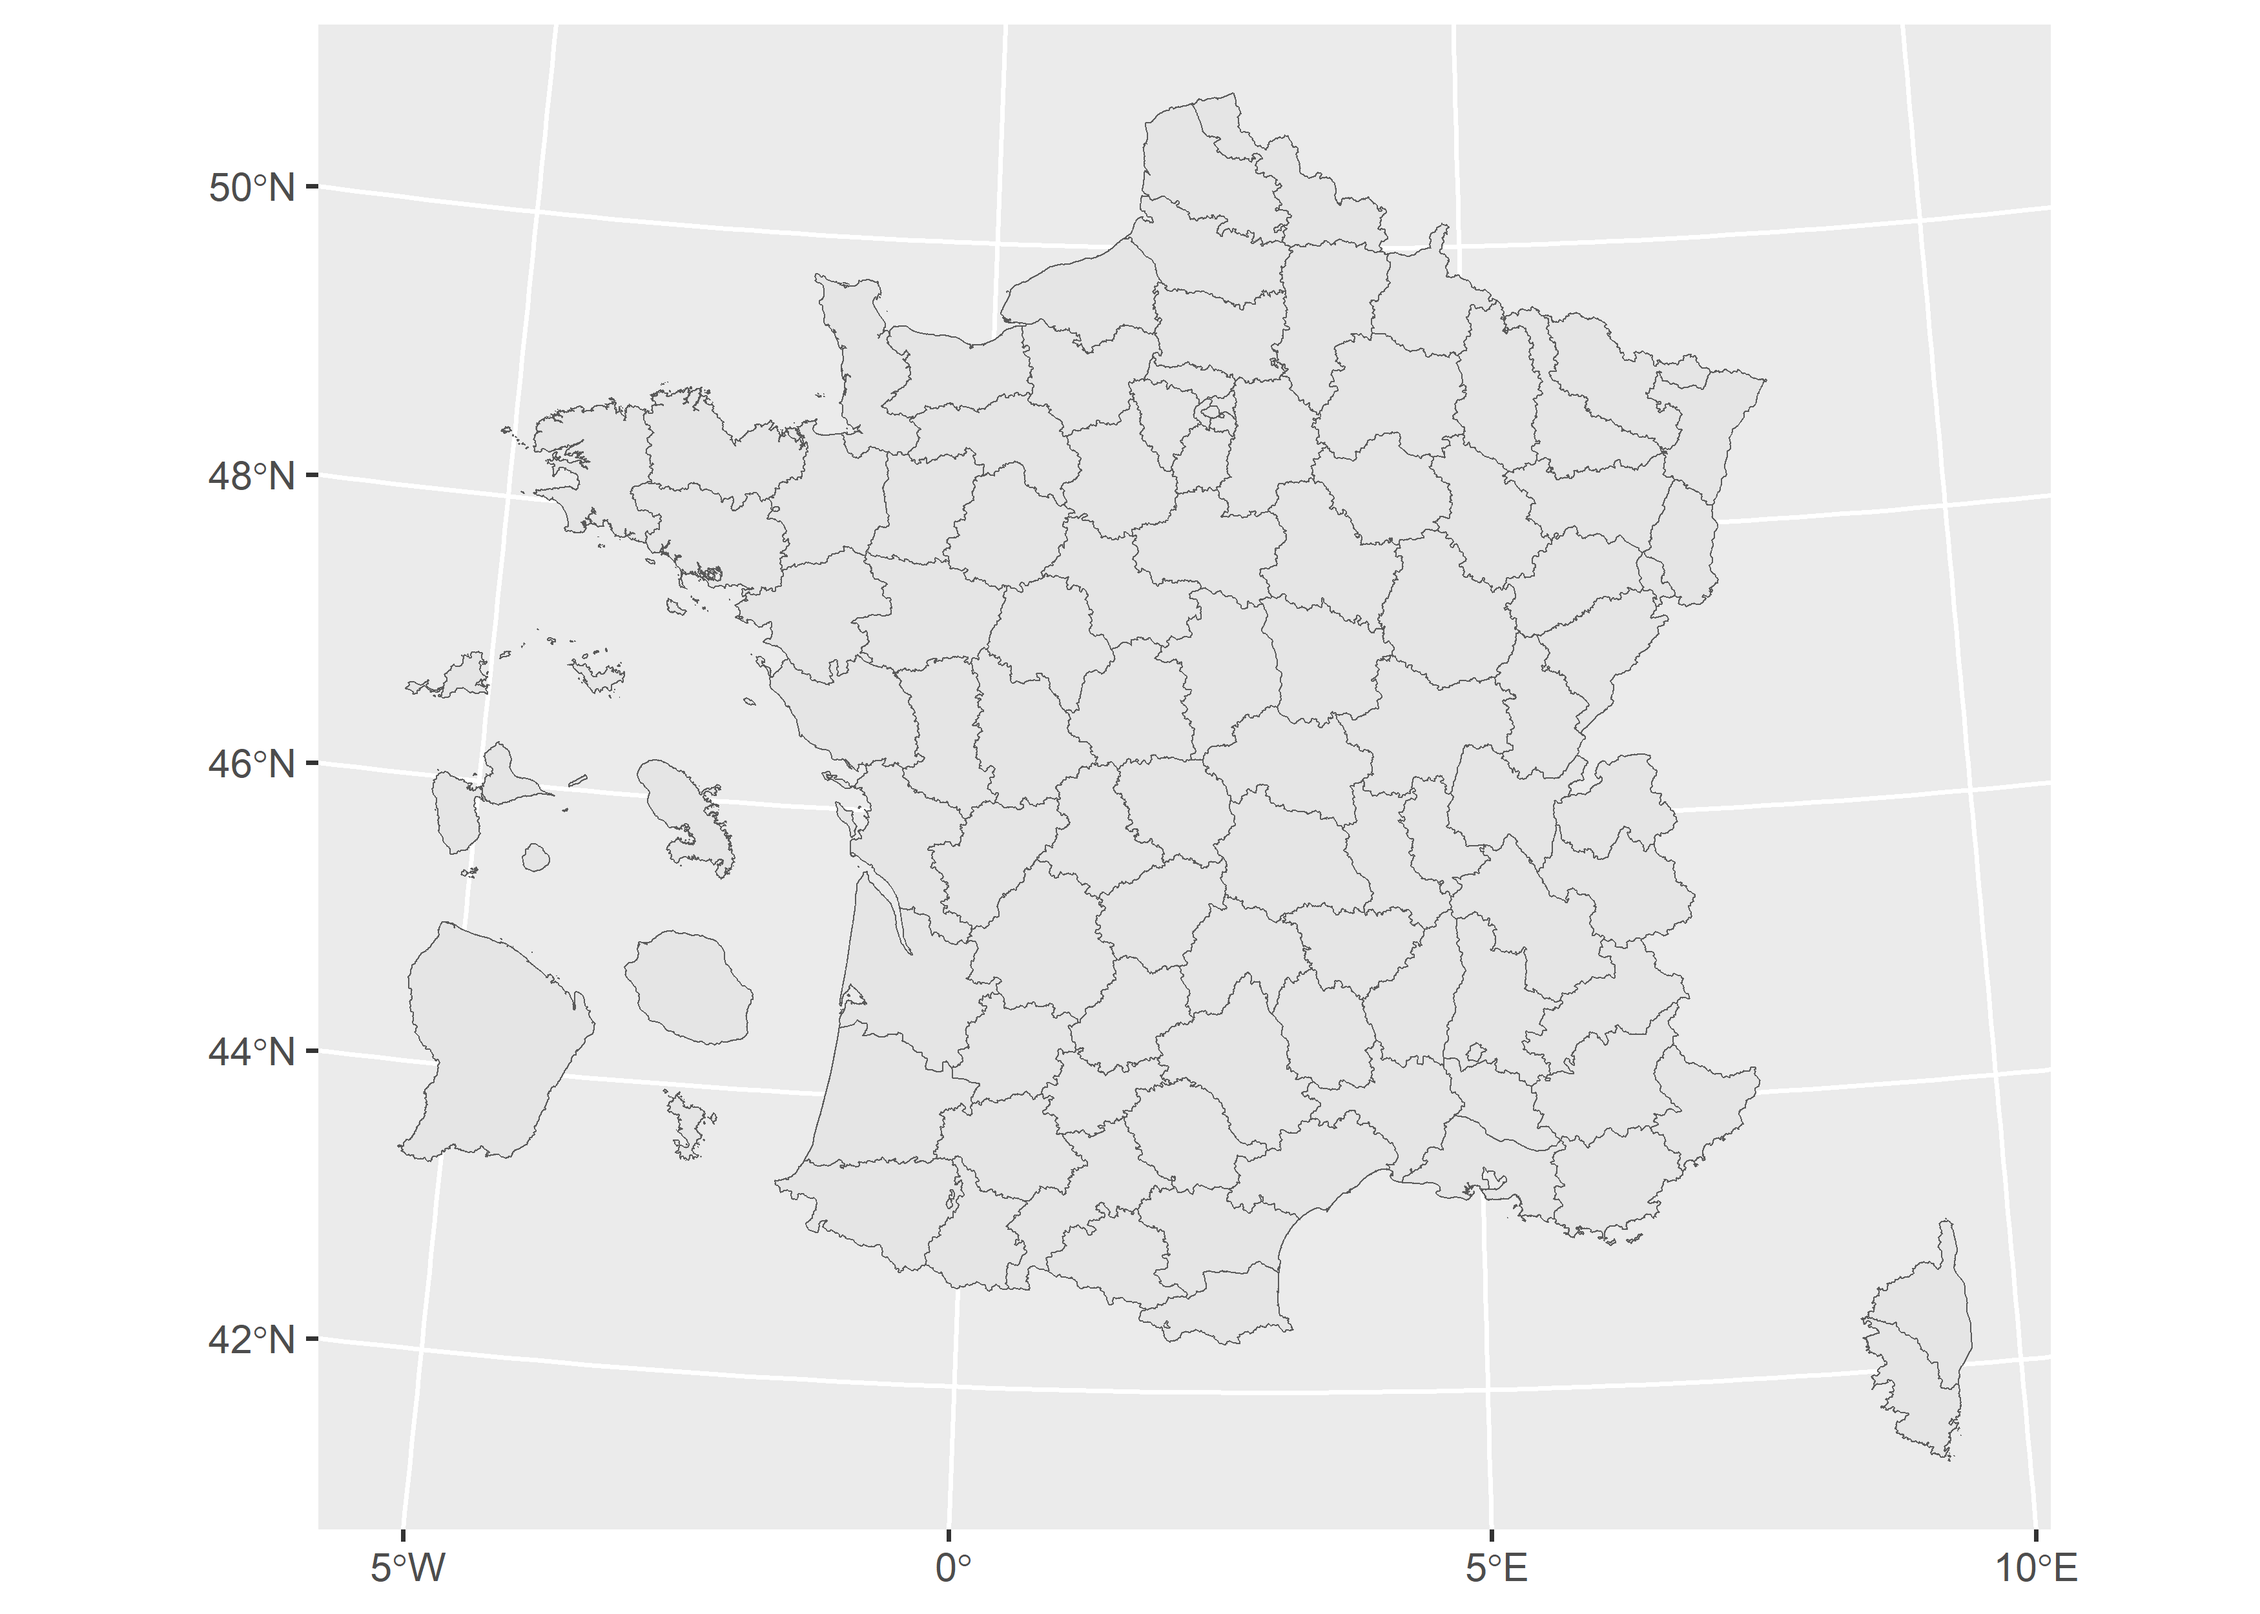
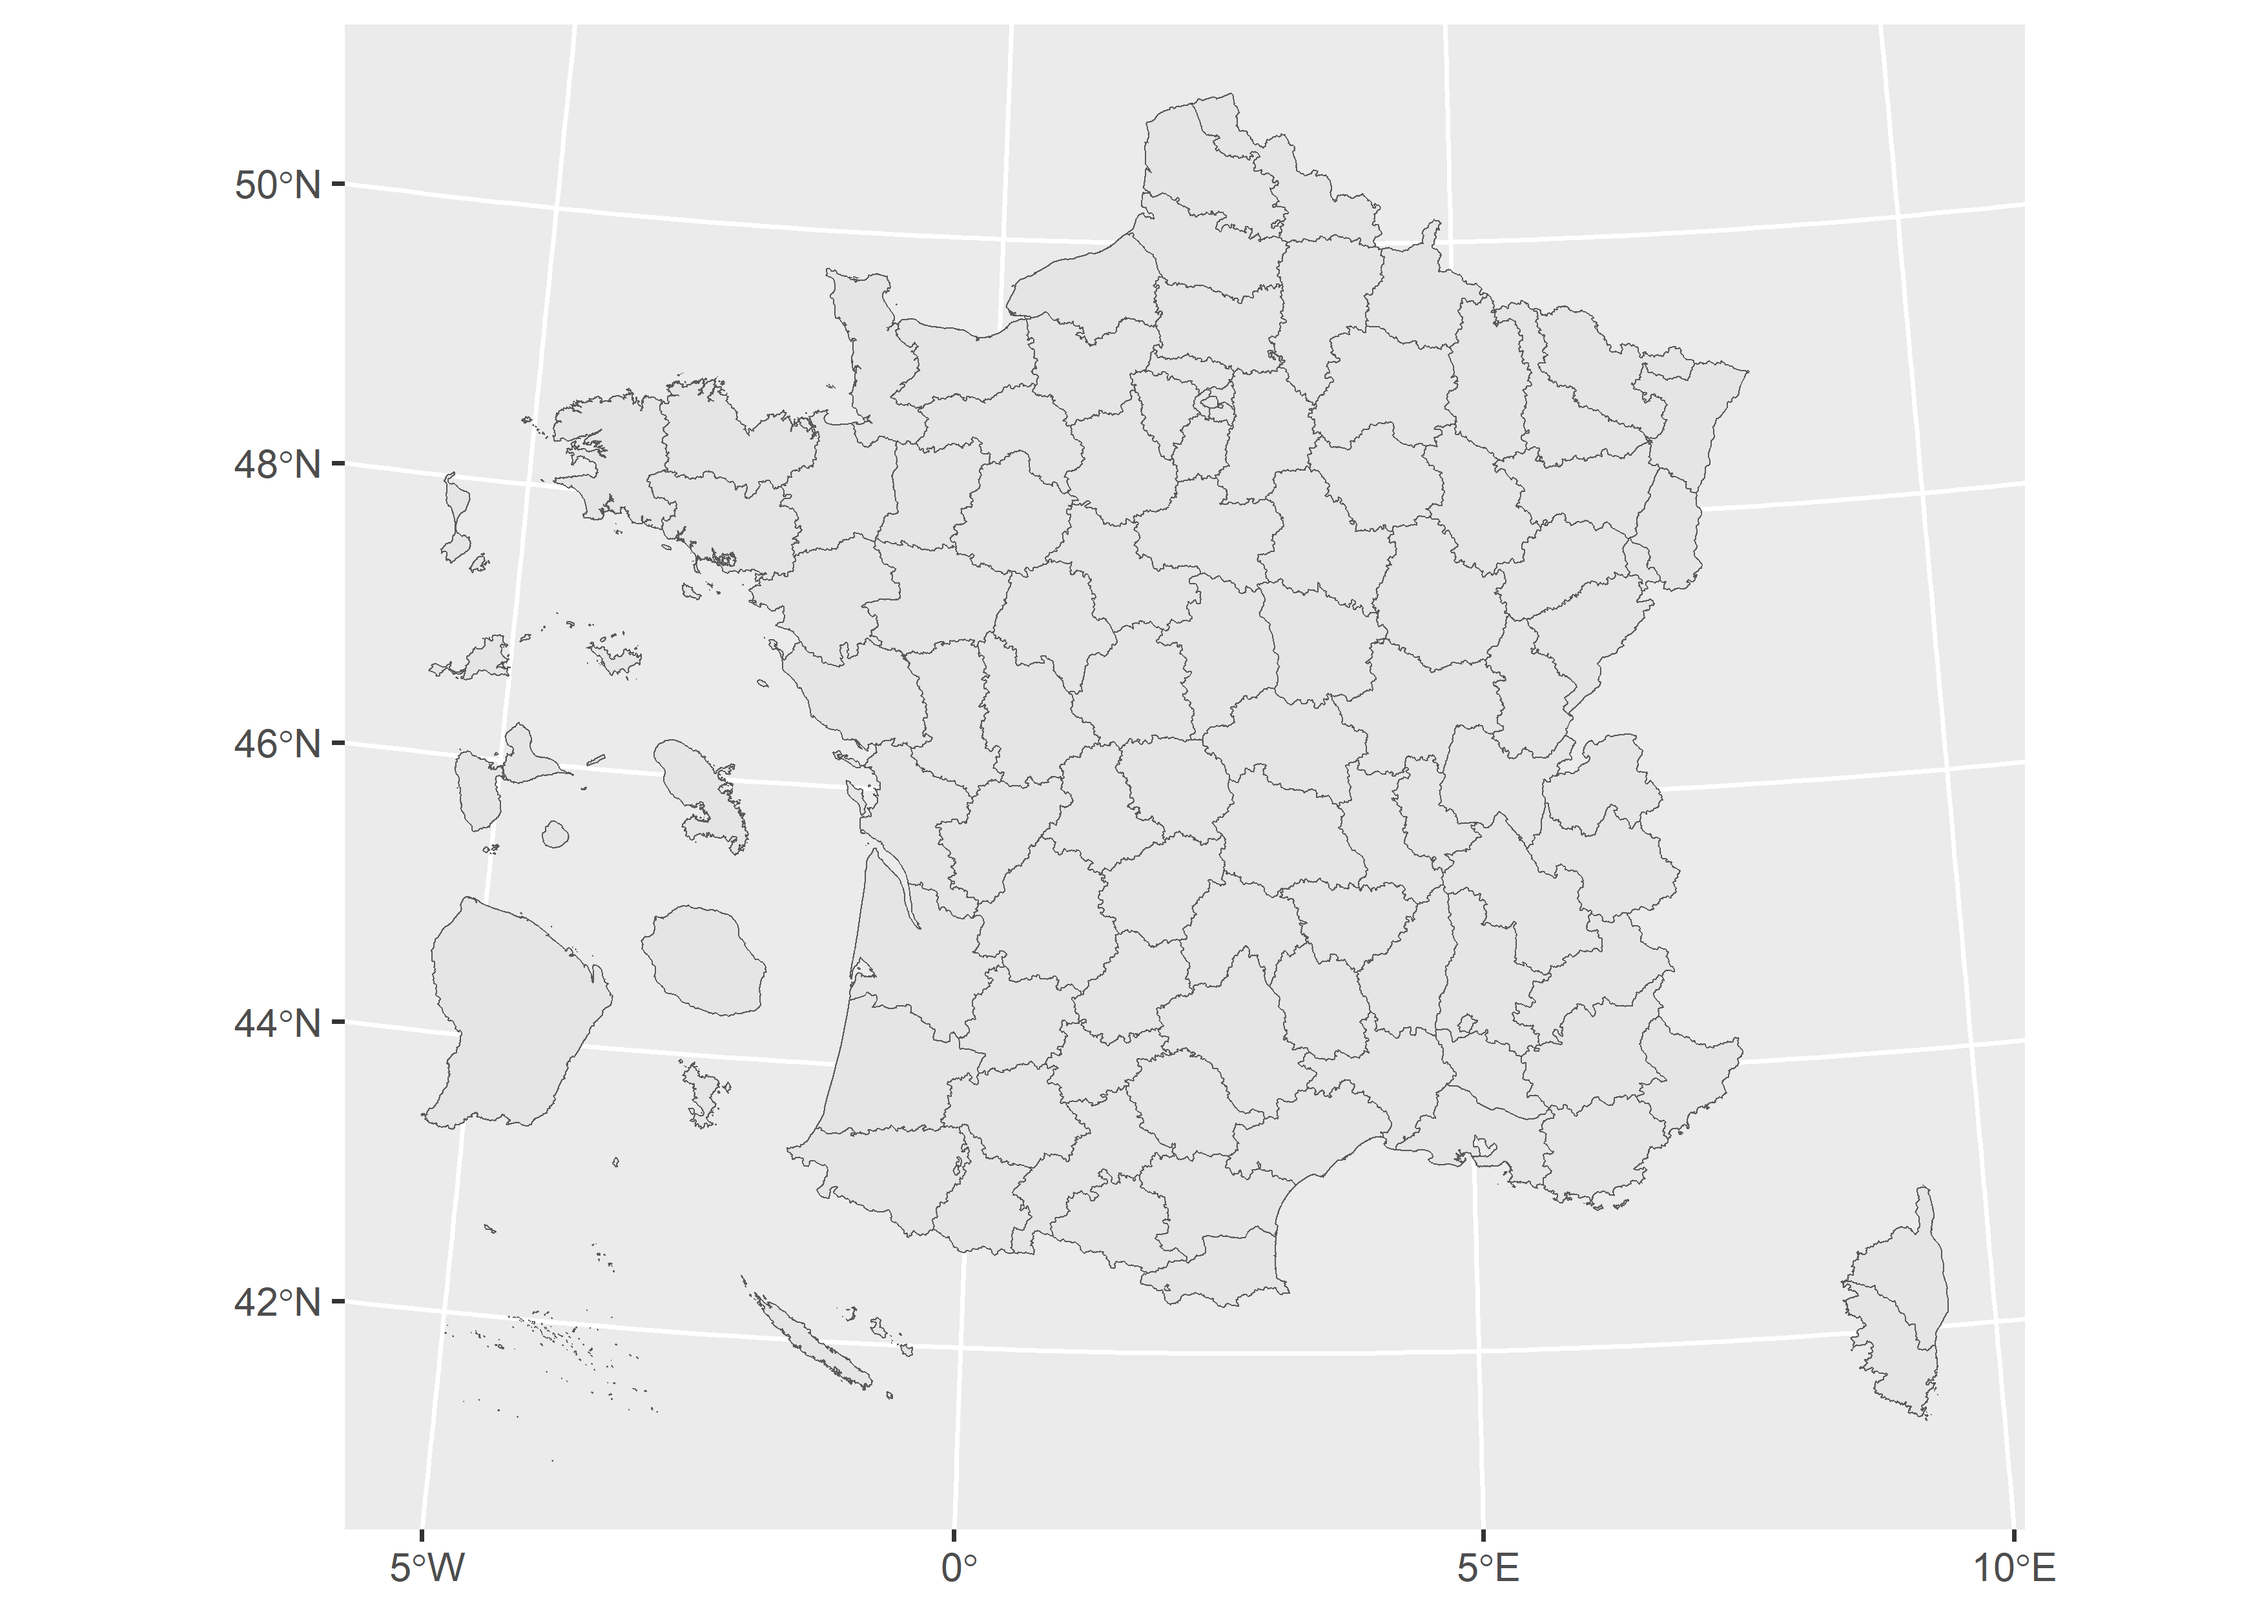
mise à jour parametres COM et readme

diff --git a/README.md b/README.md
@@ -6,7 +6,7 @@
 <!-- badges: start -->
 <!-- badges: end -->
 
-Le package R `CartOutremer` permet de faciliter la cartographie des
+Le package R `cartoutremer` permet de faciliter la cartographie des
 territoires français d’Outre-Mer (DROM et COM) dans les outils R et
 QGis. Ces territoires sont placés à proximité de la France
 métropolitaine et leur échelle est altérée afin de faciliter la
@@ -53,13 +53,13 @@ DEP_FRMETDROM <- DEP_FRMET %>% st_transform(4326) %>%
   rbind.data.frame(DEP_972 %>% st_transform(4326)) %>%
   rbind.data.frame(DEP_973 %>% st_transform(4326)) %>%
   rbind.data.frame(DEP_974 %>% st_transform(4326)) %>%
-  # rbind.data.frame(DEP_975) %>%
+  rbind.data.frame(DEP_975 %>% st_transform(4326)) %>%
   rbind.data.frame(DEP_976 %>% st_transform(4326)) %>%
   rbind.data.frame(DEP_977 %>% st_transform(4326)) %>%
   rbind.data.frame(DEP_978 %>% st_transform(4326)) %>%
-  # rbind.data.frame(DEP_986) %>%
-  # rbind.data.frame(DEP_987) %>%
-  # rbind.data.frame(DEP_988) %>%
+  rbind.data.frame(DEP_986 %>% st_transform(4326)) %>%
+  rbind.data.frame(DEP_987 %>% st_transform(4326)) %>%
+  rbind.data.frame(DEP_988 %>% st_transform(4326)) %>%
   identity()
 
 # transformation des DROM pour les afficher à proximité de la France métropolitaine
@@ -76,54 +76,13 @@ ggplot() +
 
 <img src="man/figures/README-carto_frmetdrom-1.png" width="100%" />
 
-``` r
-
-# ajout des COM 975/977/978
-
-DEP_977_978 <- st_read("https://static.data.gouv.fr/resources/decoupage-administratif-des-com-st-martin-et-st-barthelemy-et-com-saint-pierre-et-miquelon-format-admin-express/20220506-142254/departement.geojson",quiet = TRUE) %>%
-  # mise en cohérence des champs
-select(id=ID, nom_m = NOM_DEP, nom = NOM_DEP_M, insee_dep = INSEE_DEP, the_geom = geometry)
-
-DEP_975 <- st_read("https://static.data.gouv.fr/resources/decoupage-administratif-des-com-st-martin-et-st-barthelemy-et-com-saint-pierre-et-miquelon-format-admin-express/20220506-142220/departement.geojson",quiet = TRUE) %>%
-  # mise en cohérence des champs
-select(id=ID, nom_m = NOM_DEP, nom = NOM_DEP_M, insee_dep = INSEE_DEP, the_geom = geometry)
-  
-# transformation des DROM pour les afficher à proximité de la France métropolitaine
-DEP_977_978.proche <-
-  transfo_om(shape_origine = DEP_977_978,
-             var_departement = "insee_dep",
-             type_transfo = "v1")
-# colnames(DEP_977_978.proche)
-DEP_975.proche <-
-  transfo_om(shape_origine = DEP_975,
-             var_departement = "insee_dep",
-             type_transfo = "v1")
-
-# cartographie 
-ggplot() +
-  geom_sf(data = DEP_FRMETDROM.proches,
-          aes(fill = insee_dep),
-          show.legend = FALSE,
-          lwd  = 0) +
-  geom_sf(data = # agrégation des COM visuellement rapprochés
-                DEP_975.proche %>%
-                bind_rows(DEP_977_978.proche),
-          fill = "red",
-          color = NA) +
-  coord_sf( datum = NA)
-```
-
 # Ajout des cartons
 
 ``` r
 ggplot() +
-  geom_sf(data = DEP_FRMETDROM.proches %>%
-                # agrégation des COM visuellement rapprochés
-                bind_rows(DEP_975.proche) %>%
-                bind_rows(DEP_977_978.proche)) +
+  geom_sf(data = DEP_FRMETDROM.proches) +
   # délimitations des zones
   geom_rect(data = param_cadres_om %>%
-              filter(DEP %in% c("971","972","973","974", "975","976", "977", "978")) %>%
               filter(type_rapp %in% "v1"),
               aes(xmin = xmin, xmax = xmax, 
                   ymin = ymin, ymax = ymax, 
@@ -132,7 +91,6 @@ ggplot() +
               stroke = 1) +
   # affichage des étiquettes
     geom_text(data = param_cadres_om %>%
-                filter(DEP %in% c("971","972","973","974", "975","976", "977", "978")) %>%
                 filter(type_rapp %in% "v1"),
                aes(x = xmax-20000, 
                    y = ymax-15000, 
@@ -144,6 +102,8 @@ ggplot() +
   theme(axis.title = element_blank(),
         axis.text = element_blank())
 ```
+
+<img src="man/figures/README-cartons-1.png" width="100%" />
 
 # Ressources annexes :
 
